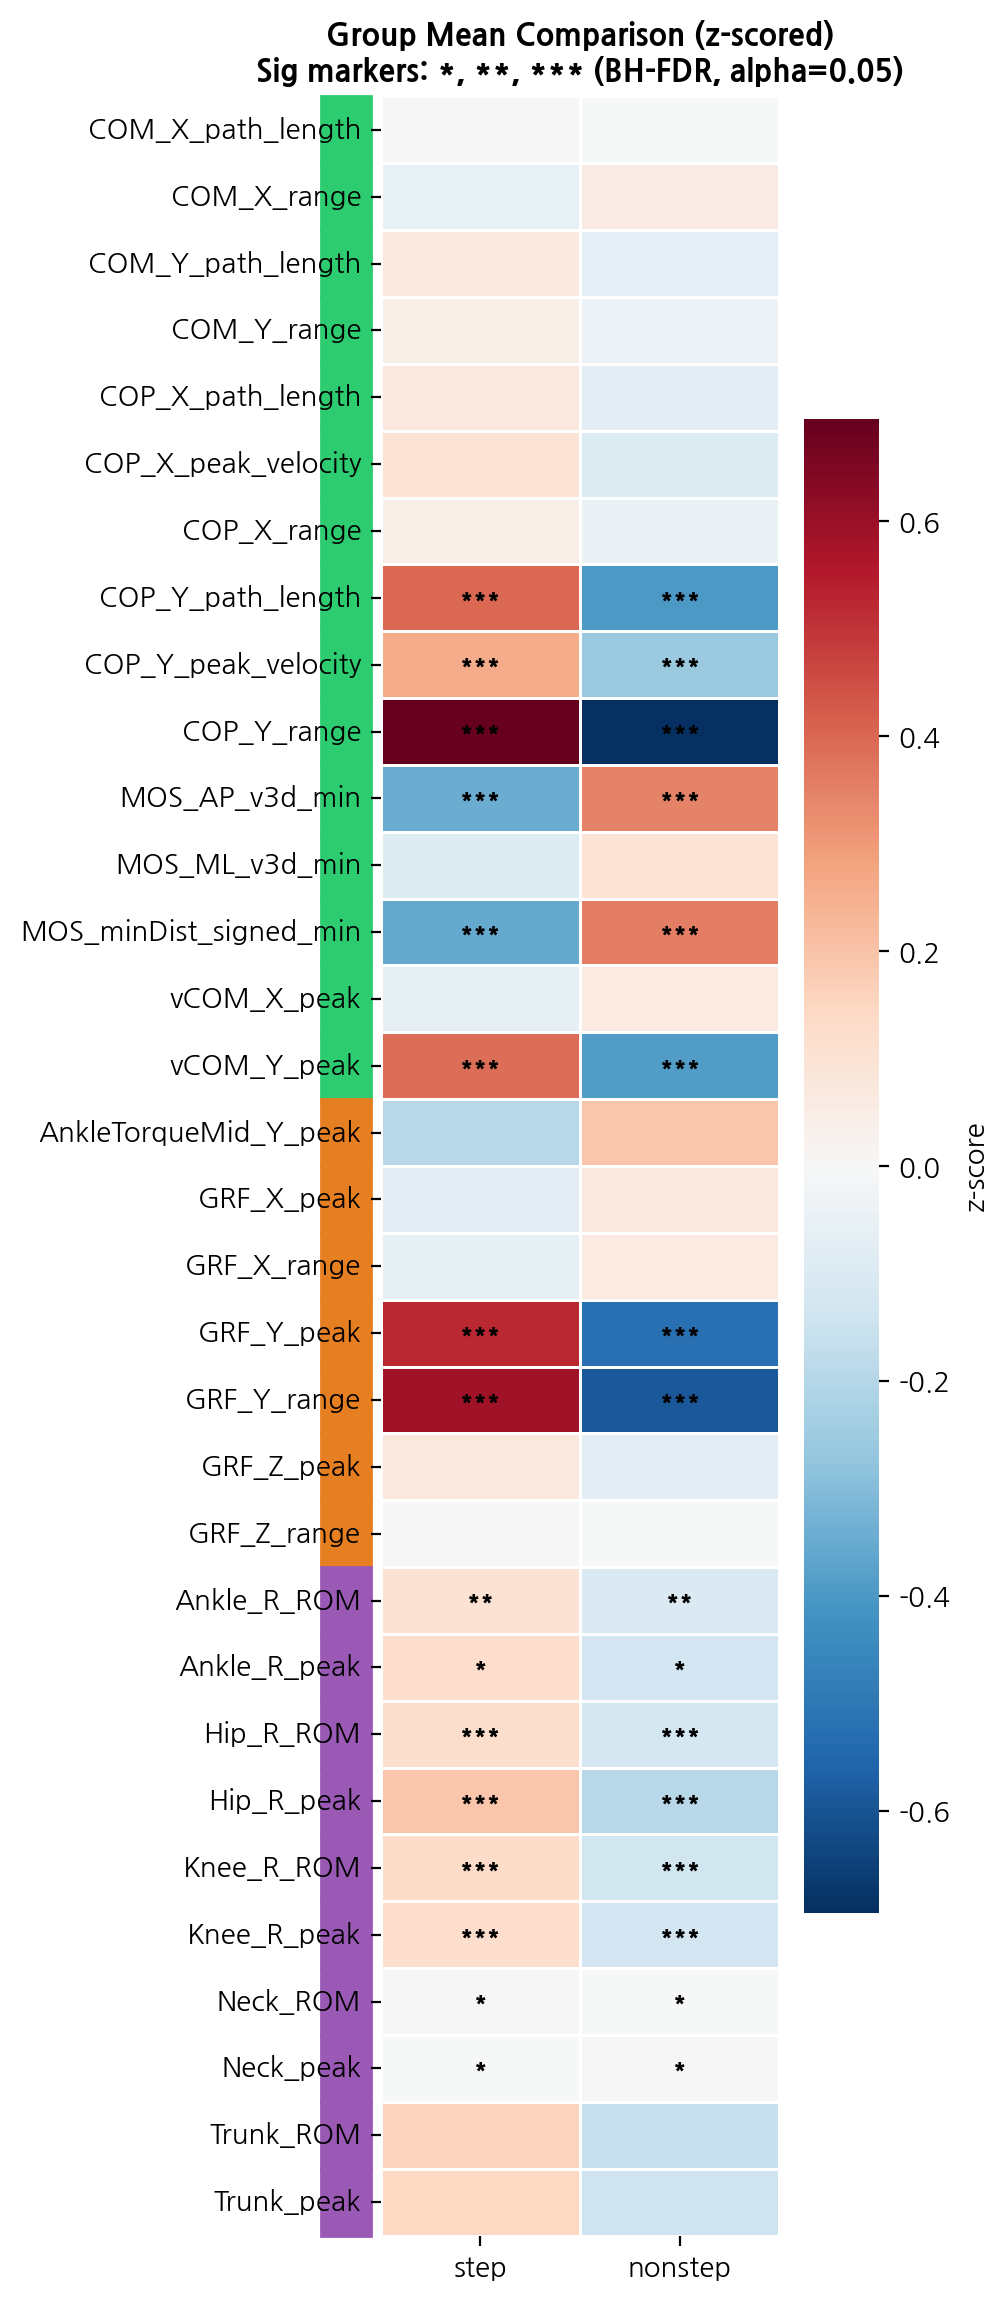
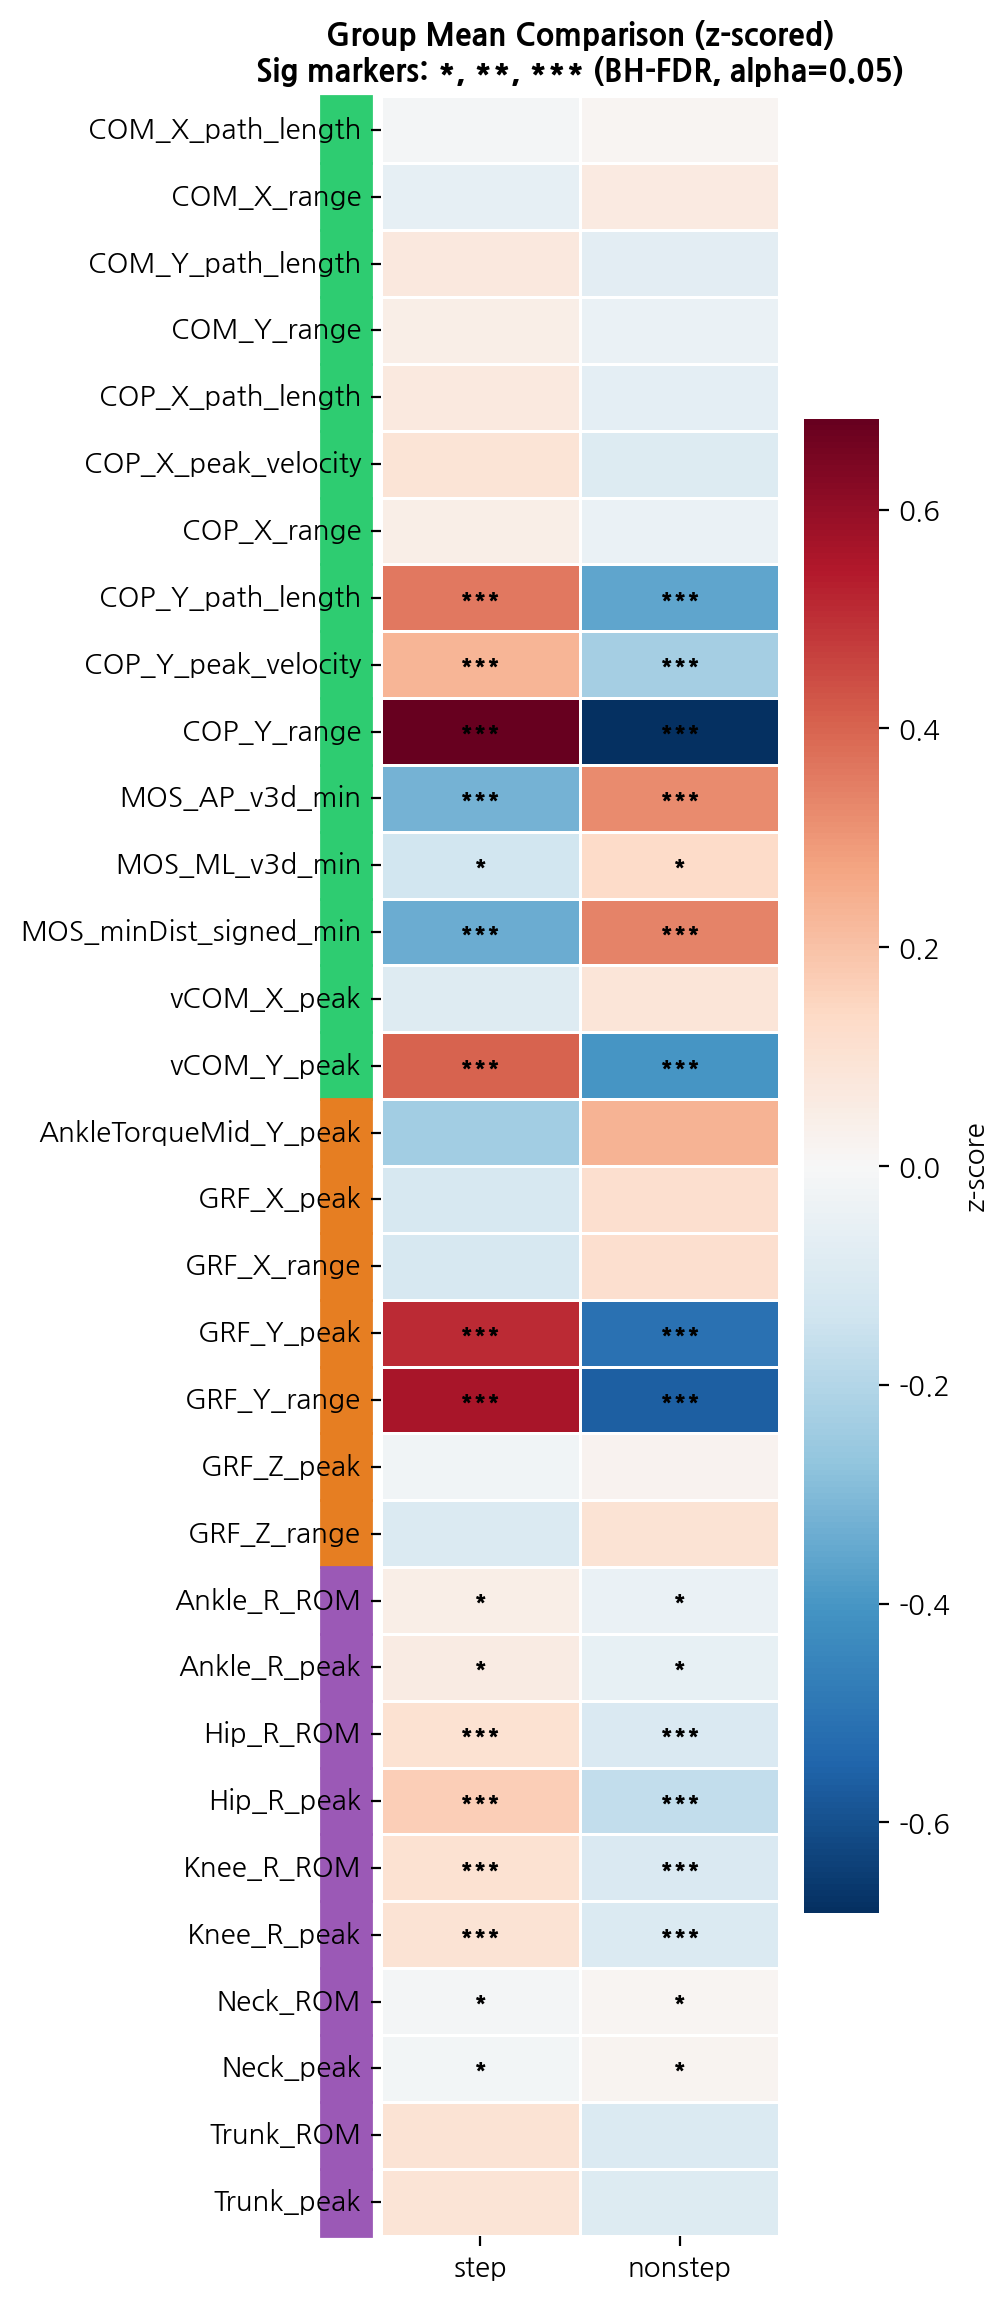
analysis: nonstep end_frame global fallback 적용
subject-velocity step 평균이 없을 때 nonstep 결측을 전체 step_onset 평균으로 보정

step_vs_nonstep LMM 재실행 후 report/figure/이슈 기록을 최신 결과로 동기화

diff --git a/analysis/step_vs_nonstep_lmm/analyze_step_vs_nonstep_lmm.py b/analysis/step_vs_nonstep_lmm/analyze_step_vs_nonstep_lmm.py
@@ -291,6 +291,8 @@ def _compute_end_frames(df: pl.DataFrame, platform: pd.DataFrame) -> pd.DataFram
     - step trials: end_frame = step_onset_local (actual step onset)
     - nonstep trials: end_frame = mean(step_onset_local) of step trials
       in the same (subject, velocity) group
+    - nonstep fallback: if subject-velocity mean is unavailable, use global
+      mean(step_onset_local) across all step trials
 
     Returns a pandas DataFrame with [subject, velocity, trial, end_frame].
     """
@@ -324,15 +326,31 @@ def _compute_end_frames(df: pl.DataFrame, platform: pd.DataFrame) -> pd.DataFram
         .rename(columns={"step_onset_local": "mean_step_onset"})
     )
 
+    filled_sv_mean = 0
+    filled_global_mean = 0
     needs_end = trials["end_frame"].isna()
     if needs_end.any():
         trials = trials.merge(step_means, on=["subject", "velocity"], how="left")
-        fill_mask = needs_end & trials["mean_step_onset"].notna()
-        trials.loc[fill_mask, "end_frame"] = trials.loc[fill_mask, "mean_step_onset"]
+        fill_mask_sv = needs_end & trials["mean_step_onset"].notna()
+        trials.loc[fill_mask_sv, "end_frame"] = trials.loc[fill_mask_sv, "mean_step_onset"]
+        filled_sv_mean = int(fill_mask_sv.sum())
+
+        # Global fallback applies only to nonstep rows still missing end_frame.
+        global_step_mean = trials.loc[step_mask, "step_onset_local"].mean()
+        fill_mask_global = (
+            trials["end_frame"].isna()
+            & (trials["step_TF"] == "nonstep")
+            & pd.notna(global_step_mean)
+        )
+        trials.loc[fill_mask_global, "end_frame"] = global_step_mean
+        filled_global_mean = int(fill_mask_global.sum())
+
         trials.drop(columns=["mean_step_onset"], inplace=True)
 
     trials["end_frame"] = trials["end_frame"].round().astype("Int64")
 
+    print(f"  end_frame fill (subject-velocity mean): {filled_sv_mean}")
+    print(f"  end_frame fill (global step mean): {filled_global_mean}")
     n_missing = trials["end_frame"].isna().sum()
     if n_missing > 0:
         print(f"  Warning: {n_missing} trials with no computable end_frame (dropped)")

diff --git a/.codex/issue.md b/.codex/issue.md
@@ -15,6 +15,7 @@ Policy:
 - [SCHEMA] 배치 payload에 legacy alias(`MOS_*_dir`) 경로가 남아 있으면 canonical-only 결과 컬럼 정책과 충돌해, 동일 지표의 과거 명칭이 코드 경로에 잔존하게 됨.
 - [ANALYSIS] `analysis/step_vs_nonstep_lmm/analyze_step_vs_nonstep_lmm.py`가 `Rscript.exe` Windows 절대경로 고정에 의존해 WSL에서 직접 실행 시 LMM 단계가 실패(`FileNotFoundError`)하고, 최신 `output/all_trials_timeseries.csv` 기준 재분석 결과를 재현할 수 없었음.
 - [ANALYSIS] `analysis/step_vs_nonstep_lmm/report.md`의 정량 결과가 현재 입력(`output/all_trials_timeseries.csv`)과 불일치한 상태(예: 184 trial, 13/32 유의)로 남아 있어, 실행 산출(figures/stdout)과 문서 해석 간 정합성이 깨져 있었음.
+- [ANALYSIS] `analysis/step_vs_nonstep_lmm`의 nonstep-only `(subject, velocity)` 그룹에서는 `step_onset_local` 평균을 만들 수 없어 `end_frame`가 결측이 되었고, 그 결과 5 nonstep trials(3 subjects)가 분석 표본에서 제외되어 subject 수(24→21)가 축소되는 문제가 있었음.
 
 ## 2026-02-22
 
